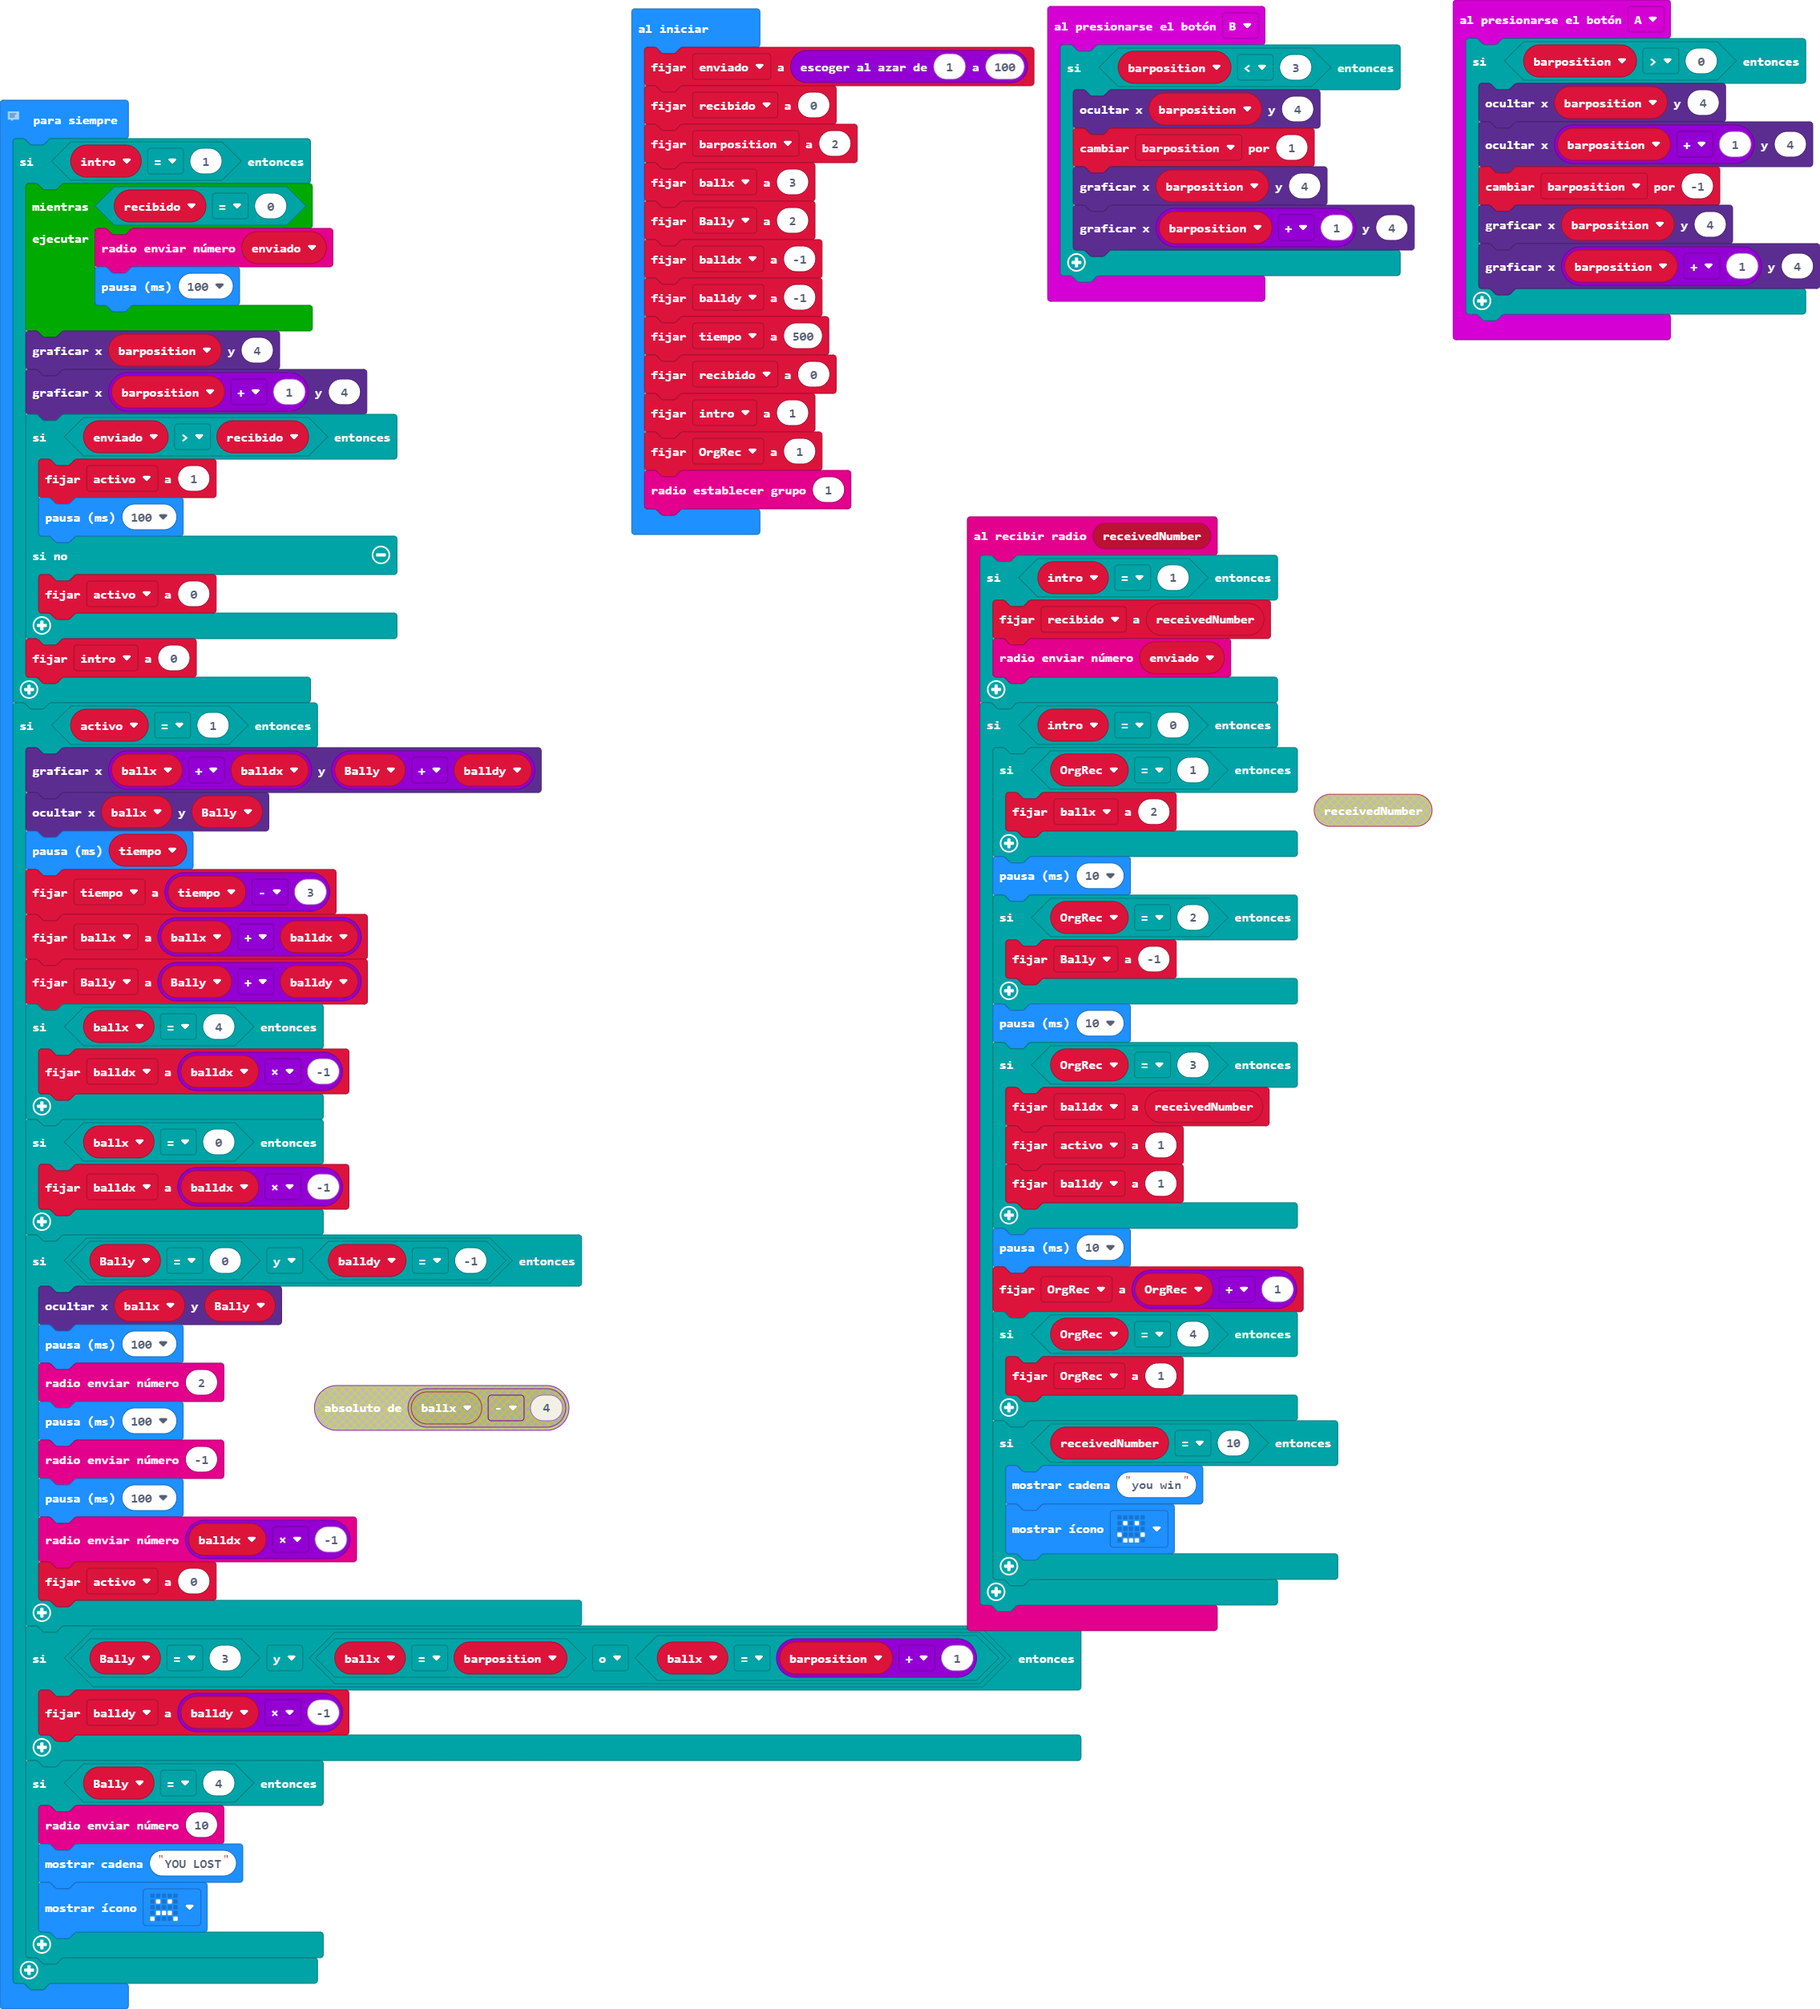
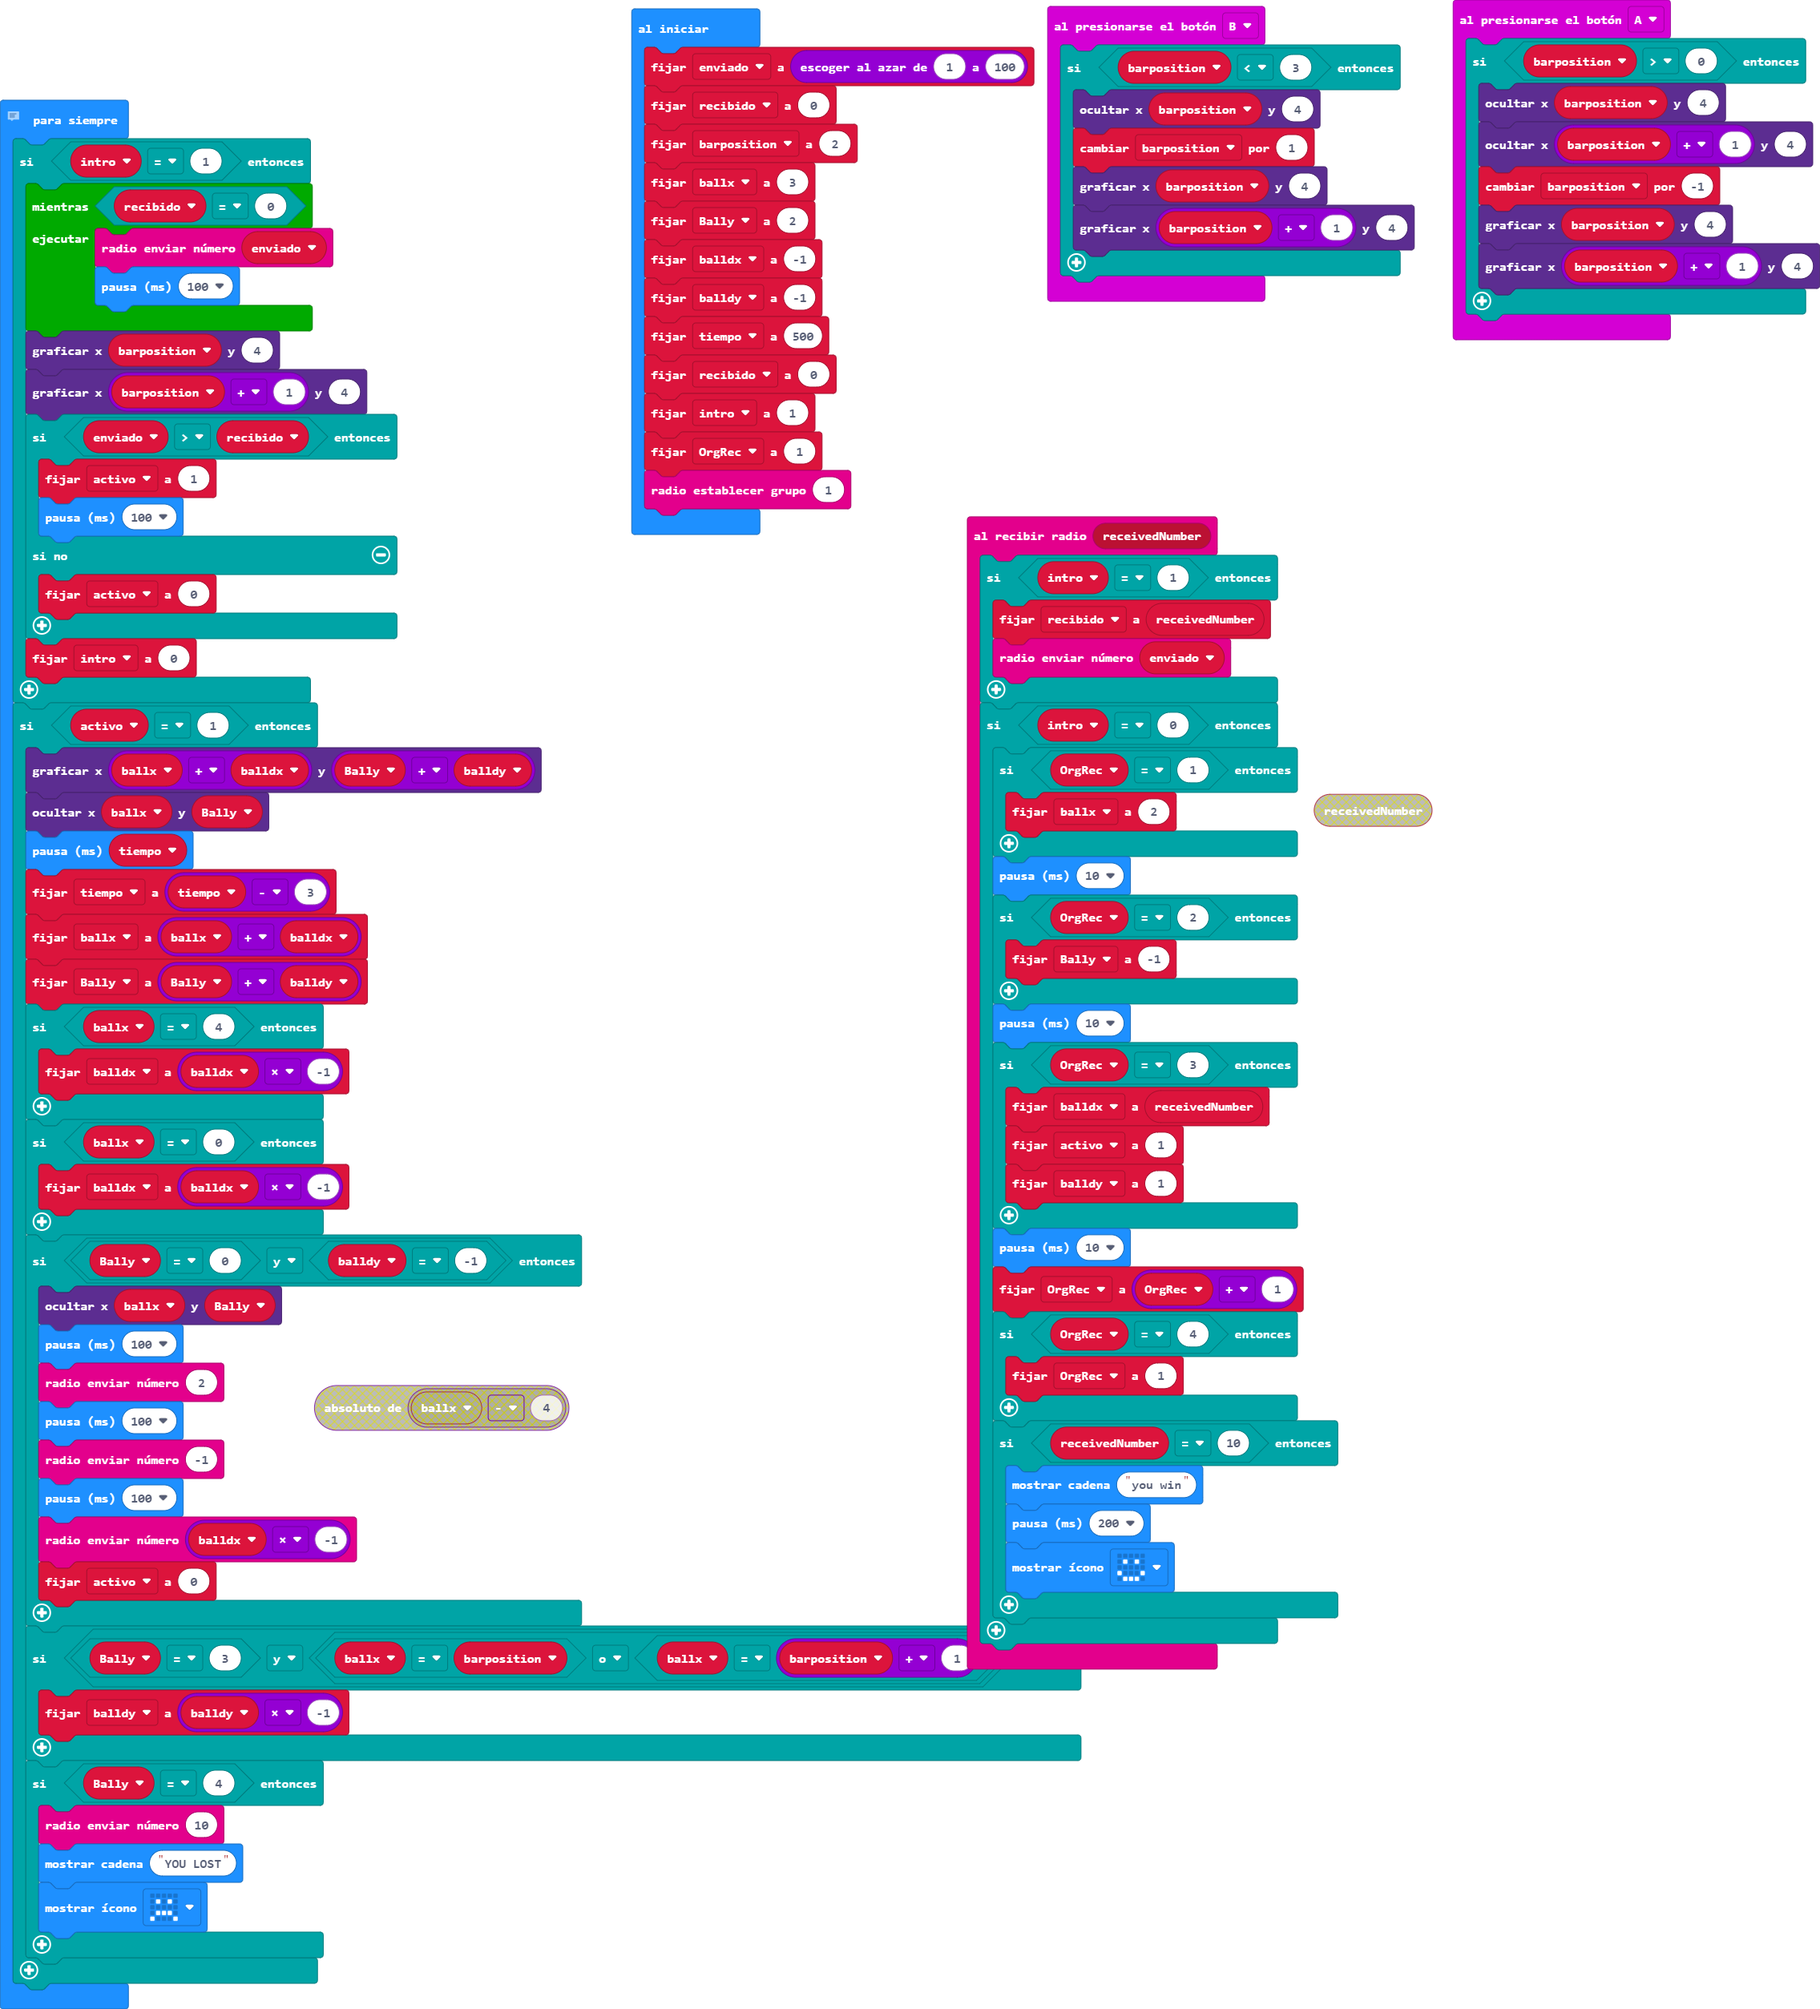
94% DEFINITIVO

Changed region(s): [[0.524, 0.7467, 0.7398, 0.84]]

diff --git a/main.ts b/main.ts
@@ -27,6 +27,7 @@ radio.onReceivedNumber(function (receivedNumber) {
         }
         if (receivedNumber == 10) {
             basic.showString("you win")
+            basic.pause(200)
             basic.showIcon(IconNames.Happy)
         }
     }
